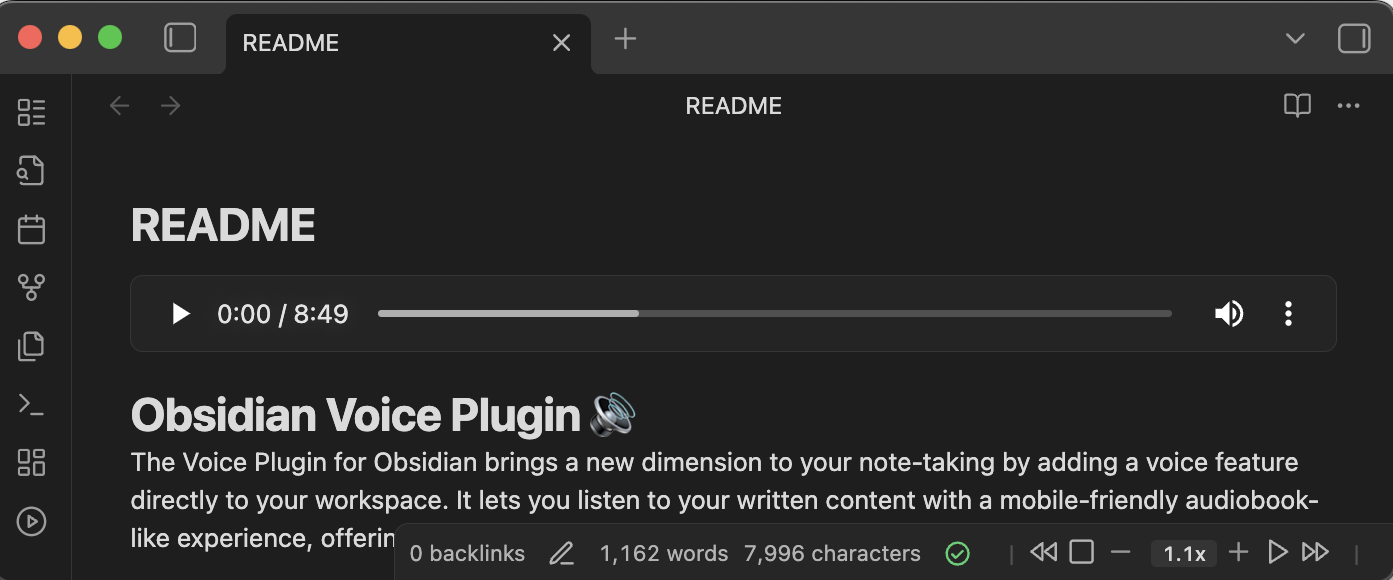
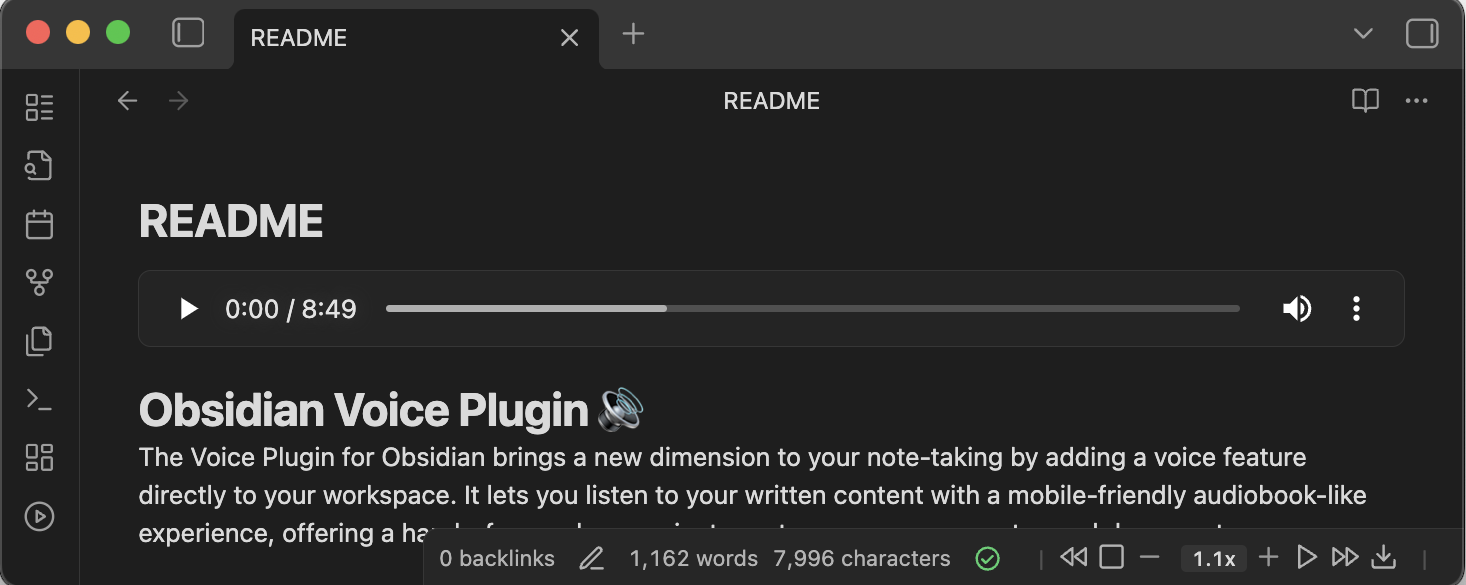
docs: enhance download feature messaging for offline playback (#34)
Changes:
- Updated "Save & Share Your Audio" to "Save & Play Audio Offline" to better reflect actual use case
- Expanded description to emphasize offline playback capability and convenience
- Updated voice-download.png screenshot for better visual clarity

This improves user understanding that downloaded MP3s can be played independently without AWS costs.

diff --git a/README.md b/README.md
@@ -29,9 +29,9 @@ Turn every note into a mobile-friendly, audiobook-like experience. The Obsidian 
 
   ![error status](./assets/error-status.png)
 
-### Save & Share Your Audio
+### Save & Play Audio Offline
 
-- While playback is running, hit the control bar download button to grab an MP3 named after your note; the plugin automatically embeds it right after the front matter.
+- While playback is running, hit the control bar download button to grab an MP3 named after your note; the plugin automatically embeds it right after the front matter to be played at your convenience and offline.
 
   ![voice download](./assets/voice-download.png)
 
